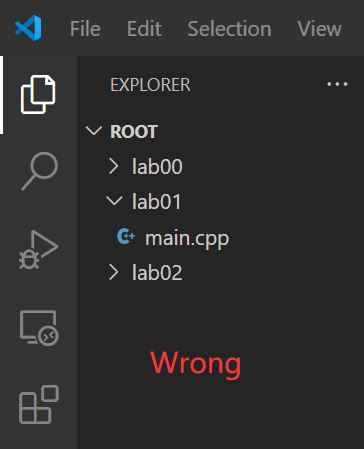
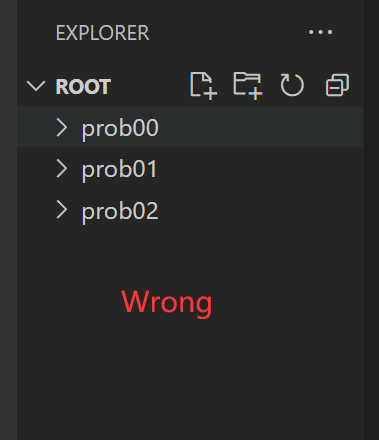
change the tips for VS Code

diff --git a/lab03/README.md b/lab03/README.md
@@ -6,13 +6,13 @@
 ## Some tips for VS Code
 1. Create a folder for each program.
 
-    <img src="./img/tip1-wrong.png" alt="Image 1" width="44%" style="display: inline-block; margin-right: 5%;" />
-    <img src="./img/tip1-correct.png" alt="Image 2" width="45%" style="display: inline-block;" />
+    <img src="./img/tip1-wrong.png" alt="Image 1" width="45%" style="display: inline-block; margin-right: 5%;" />
+    <img src="./img/tip1-correct.png" alt="Image 2" width="44%" style="display: inline-block;" />
 
-2. Open the specific folder instead of the root folder (especially for the users who want to use the button to run the code). For example, if you want to run the code in the folder "lab01", you just open the folder "lab01" using VS Code.
+2. Open the specific folder instead of the root folder (especially for the users who want to use the button to run the code). For example, if you want to run the code in the folder "prob01", you just open the folder "prob01" using VS Code.
 
-    <img src="./img/tip2-wrong.png" alt="Image 1" width="39%" style="display: inline-block; margin-right: 5%;" />
-    <img src="./img/tip2-correct.png" alt="Image 2" width="48%" style="display: inline-block;" />
+    <img src="./img/tip2-wrong.png" alt="Image 1" width="45%" style="display: inline-block; margin-right: 5%;" />
+    <img src="./img/tip2-correct.png" alt="Image 2" width="45%" style="display: inline-block;" />
 
 3. Avoid using the Chinese name for the folder or file.
     * This one and the above two tips can help you to solve many problems about the local environment.
